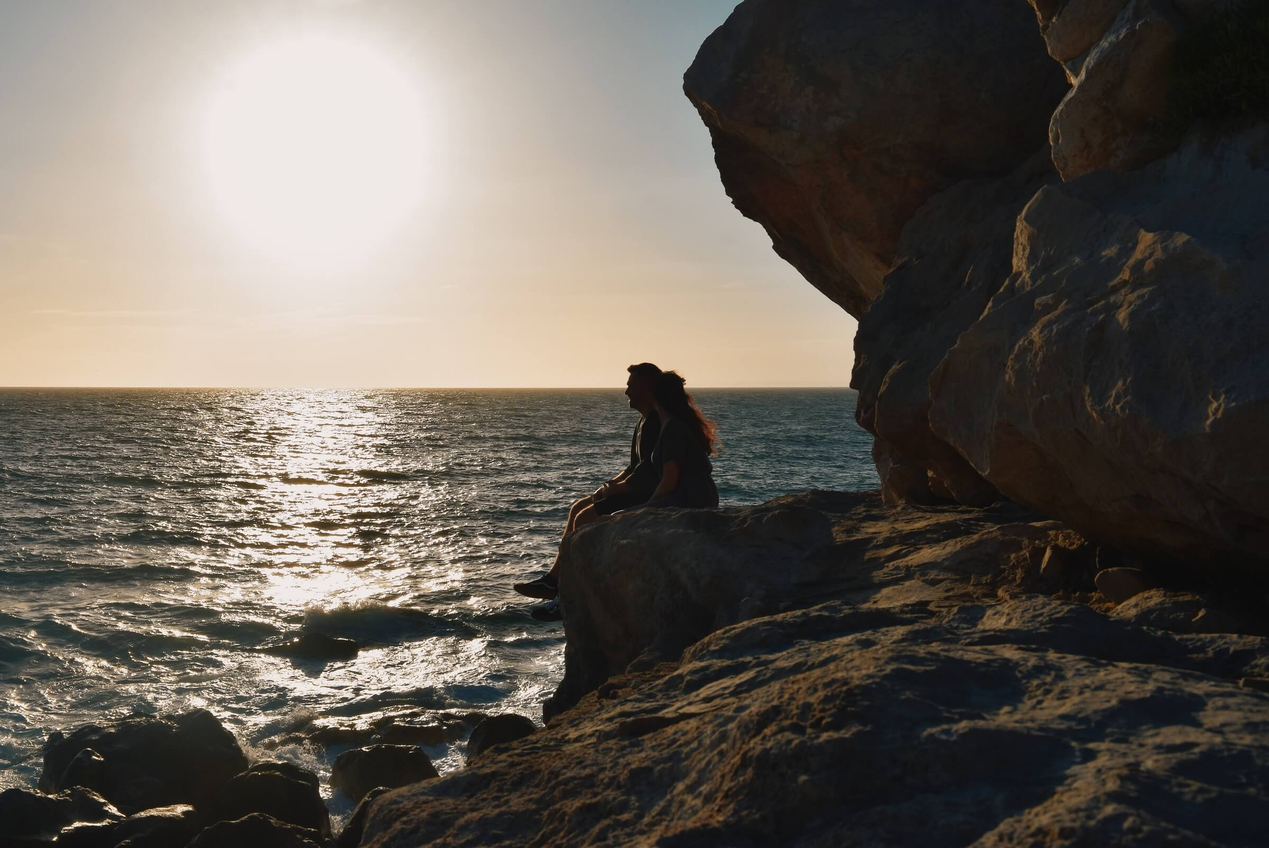
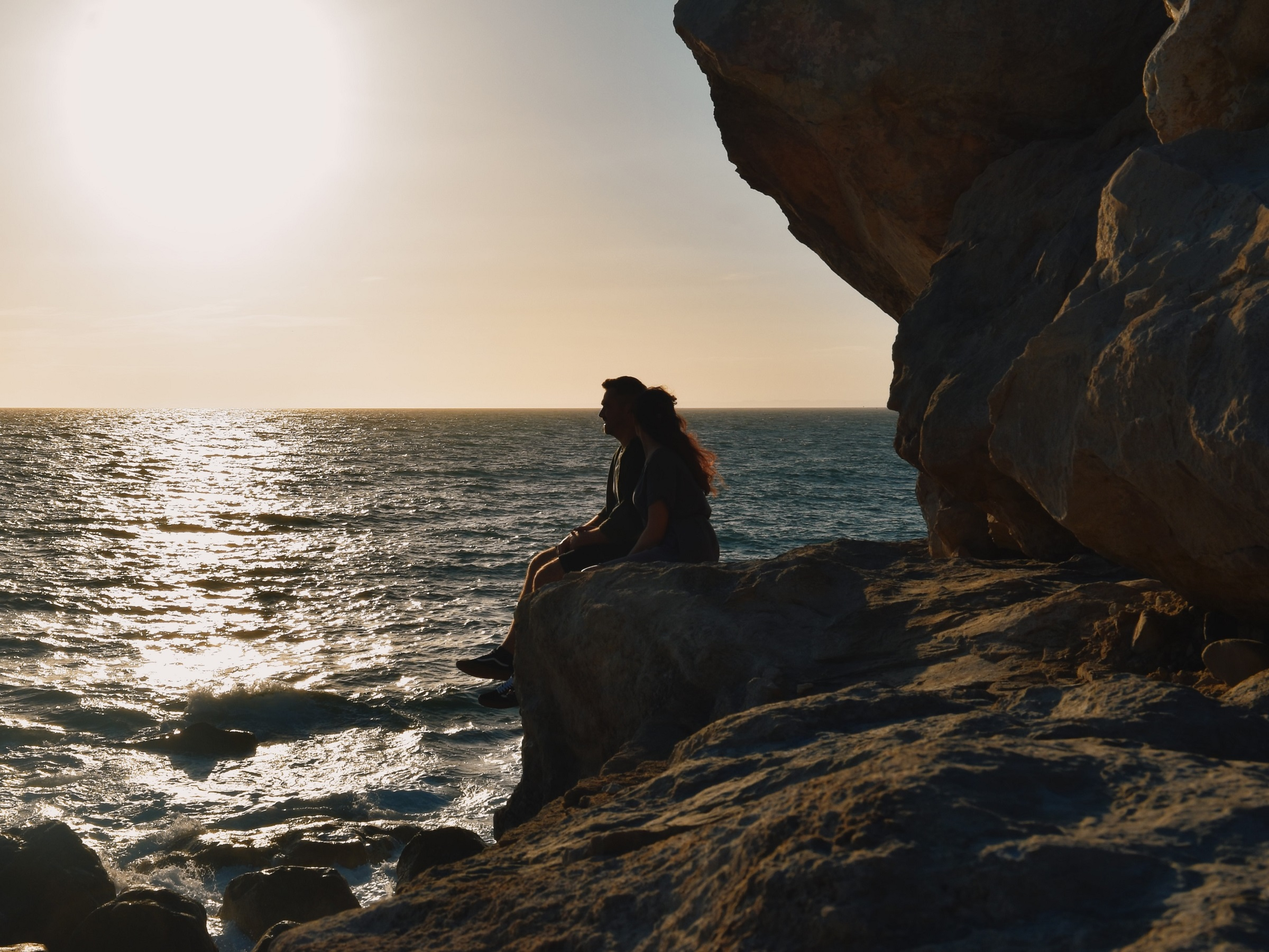
Rescaled landing image

diff --git a/components/background-image.jsx b/components/background-image.jsx
@@ -9,7 +9,6 @@ export const BackgroundImage = ({ children, src, ...other }) => {
         layout="fill"
         priority
         objectFit="cover"
-        quality={100}
         placeholder="blur"
         loading="eager"
       />
@@ -20,8 +19,10 @@ export const BackgroundImage = ({ children, src, ...other }) => {
 
 const Container = styled.div`
   position: absolute;
-  width: 100%;
-  height: 100%;
+  left: 0;
+  top: 0;
+  right: 0;
+  bottom: 0;
 `;
 
 const Overlay = styled.div`
